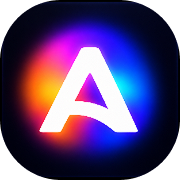
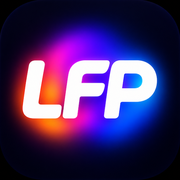
Фавикон и иконки PWA портала — новый логотип LFP со скруглёнными углами
Claude-Session: https://claude.ai/code/session_019iKxdySwbrtyrayLhCvPPP

diff --git a/apps/admin/src/routes/__root.tsx b/apps/admin/src/routes/__root.tsx
@@ -122,15 +122,15 @@ export const Route = createRootRouteWithContext<{ queryClient: QueryClient }>()(
         rel: "stylesheet",
         href: appCss,
       },
-      // Фавикон — белая «A» на тёмном с градиентным свечением, один на весь портал
-      // (решение владельца 2026-10-26; раньше — гимнастка в шпагате, до неё —
-      // круг по формату клуба). png 32/180 — вкладка и HiDPI, ico — фолбэк (часть
+      // Фавикон — логотип LadyFitPro «LFP» со скруглёнными углами, один на весь
+      // портал (решение владельца 2026-11-08; раньше — белая «A» со свечением,
+      // гимнастка в шпагате, круг по формату клуба). png 32/180 — вкладка и HiDPI, ico — фолбэк (часть
       // браузеров дёргает /favicon.ico напрямую, минуя разметку). ?v= —
       // сбросить закэшированную браузерами прежнюю иконку.
-      { rel: "icon", type: "image/png", sizes: "32x32", href: "/favicon-32.png?v=6" },
-      { rel: "icon", type: "image/png", sizes: "180x180", href: "/apple-touch-icon.png?v=6" },
-      { rel: "icon", href: "/favicon.ico?v=6", sizes: "any" },
-      { rel: "apple-touch-icon", href: "/apple-touch-icon.png?v=6" },
+      { rel: "icon", type: "image/png", sizes: "32x32", href: "/favicon-32.png?v=7" },
+      { rel: "icon", type: "image/png", sizes: "180x180", href: "/apple-touch-icon.png?v=7" },
+      { rel: "icon", href: "/favicon.ico?v=7", sizes: "any" },
+      { rel: "apple-touch-icon", href: "/apple-touch-icon.png?v=7" },
       { rel: "manifest", href: "/manifest.webmanifest" },
     ],
   }),

diff --git a/apps/admin/CLAUDE.md b/apps/admin/CLAUDE.md
@@ -118,7 +118,7 @@ AI-переменные (`AI_GATEWAY_*`, `AI_CHAT_MODEL`, `AI_TRANSCRIBE_MODEL`)
 Бренд портала — **LadyFitPro** (ребрендинг 2026-11-01, домен ladyfitpro.ru:
 в портале материалы брендов франшизы Lady Stretch и Lady Jump;
 `src/lib/brand.ts`: заголовки страниц, экран входа, `manifest.webmanifest`;
-значки `public/` пока прежние — логотип Lady Stretch).
+значки `public/` — логотип «LFP» с 2026-11-08, см. PWA ниже).
 
 ## Auth-письма
 
@@ -1072,8 +1072,12 @@ kb`. Доступ — ролями «Пользователей и ролей» 
   папка на каждую загрузку, чтобы браузеры не держали старую из кэша. Имена
   файлов совпадают с `apps/client/src/lib/app-install.ts`.
 - PWA админки (устанавливается на телефон и ноутбук): `public/manifest.webmanifest`,
-  иконки `public/icon-*.png` («40»; фавикон — гимнастка, один на всю админку, см.
-  `.interface-design/system.md`; maskable — в безопасной зоне), мета-теги iOS в `__root.tsx`. `public/sw.js` регистрируется только в
+  иконки `public/icon-*.png` и фавикон — логотип LadyFitPro «LFP» (решение
+  владельца 2026-11-08): фавикон, `icon-192/512` — со скруглёнными углами
+  (25 %, прозрачные углы), `apple-touch-icon` — непрозрачный квадрат (углы
+  скругляет iOS), maskable — плитка в безопасной зоне на цвете её краёв.
+  Новая картинка — поднять `?v=` в `__root.tsx` и манифесте. Мета-теги iOS — в
+  `__root.tsx`. `public/sw.js` регистрируется только в
   прод-сборке и приложение НЕ кэширует — перехватывает лишь переходы и без сети
   отдаёт `public/offline.html` (меняя её, поднять `VERSION` в sw.js).
 
